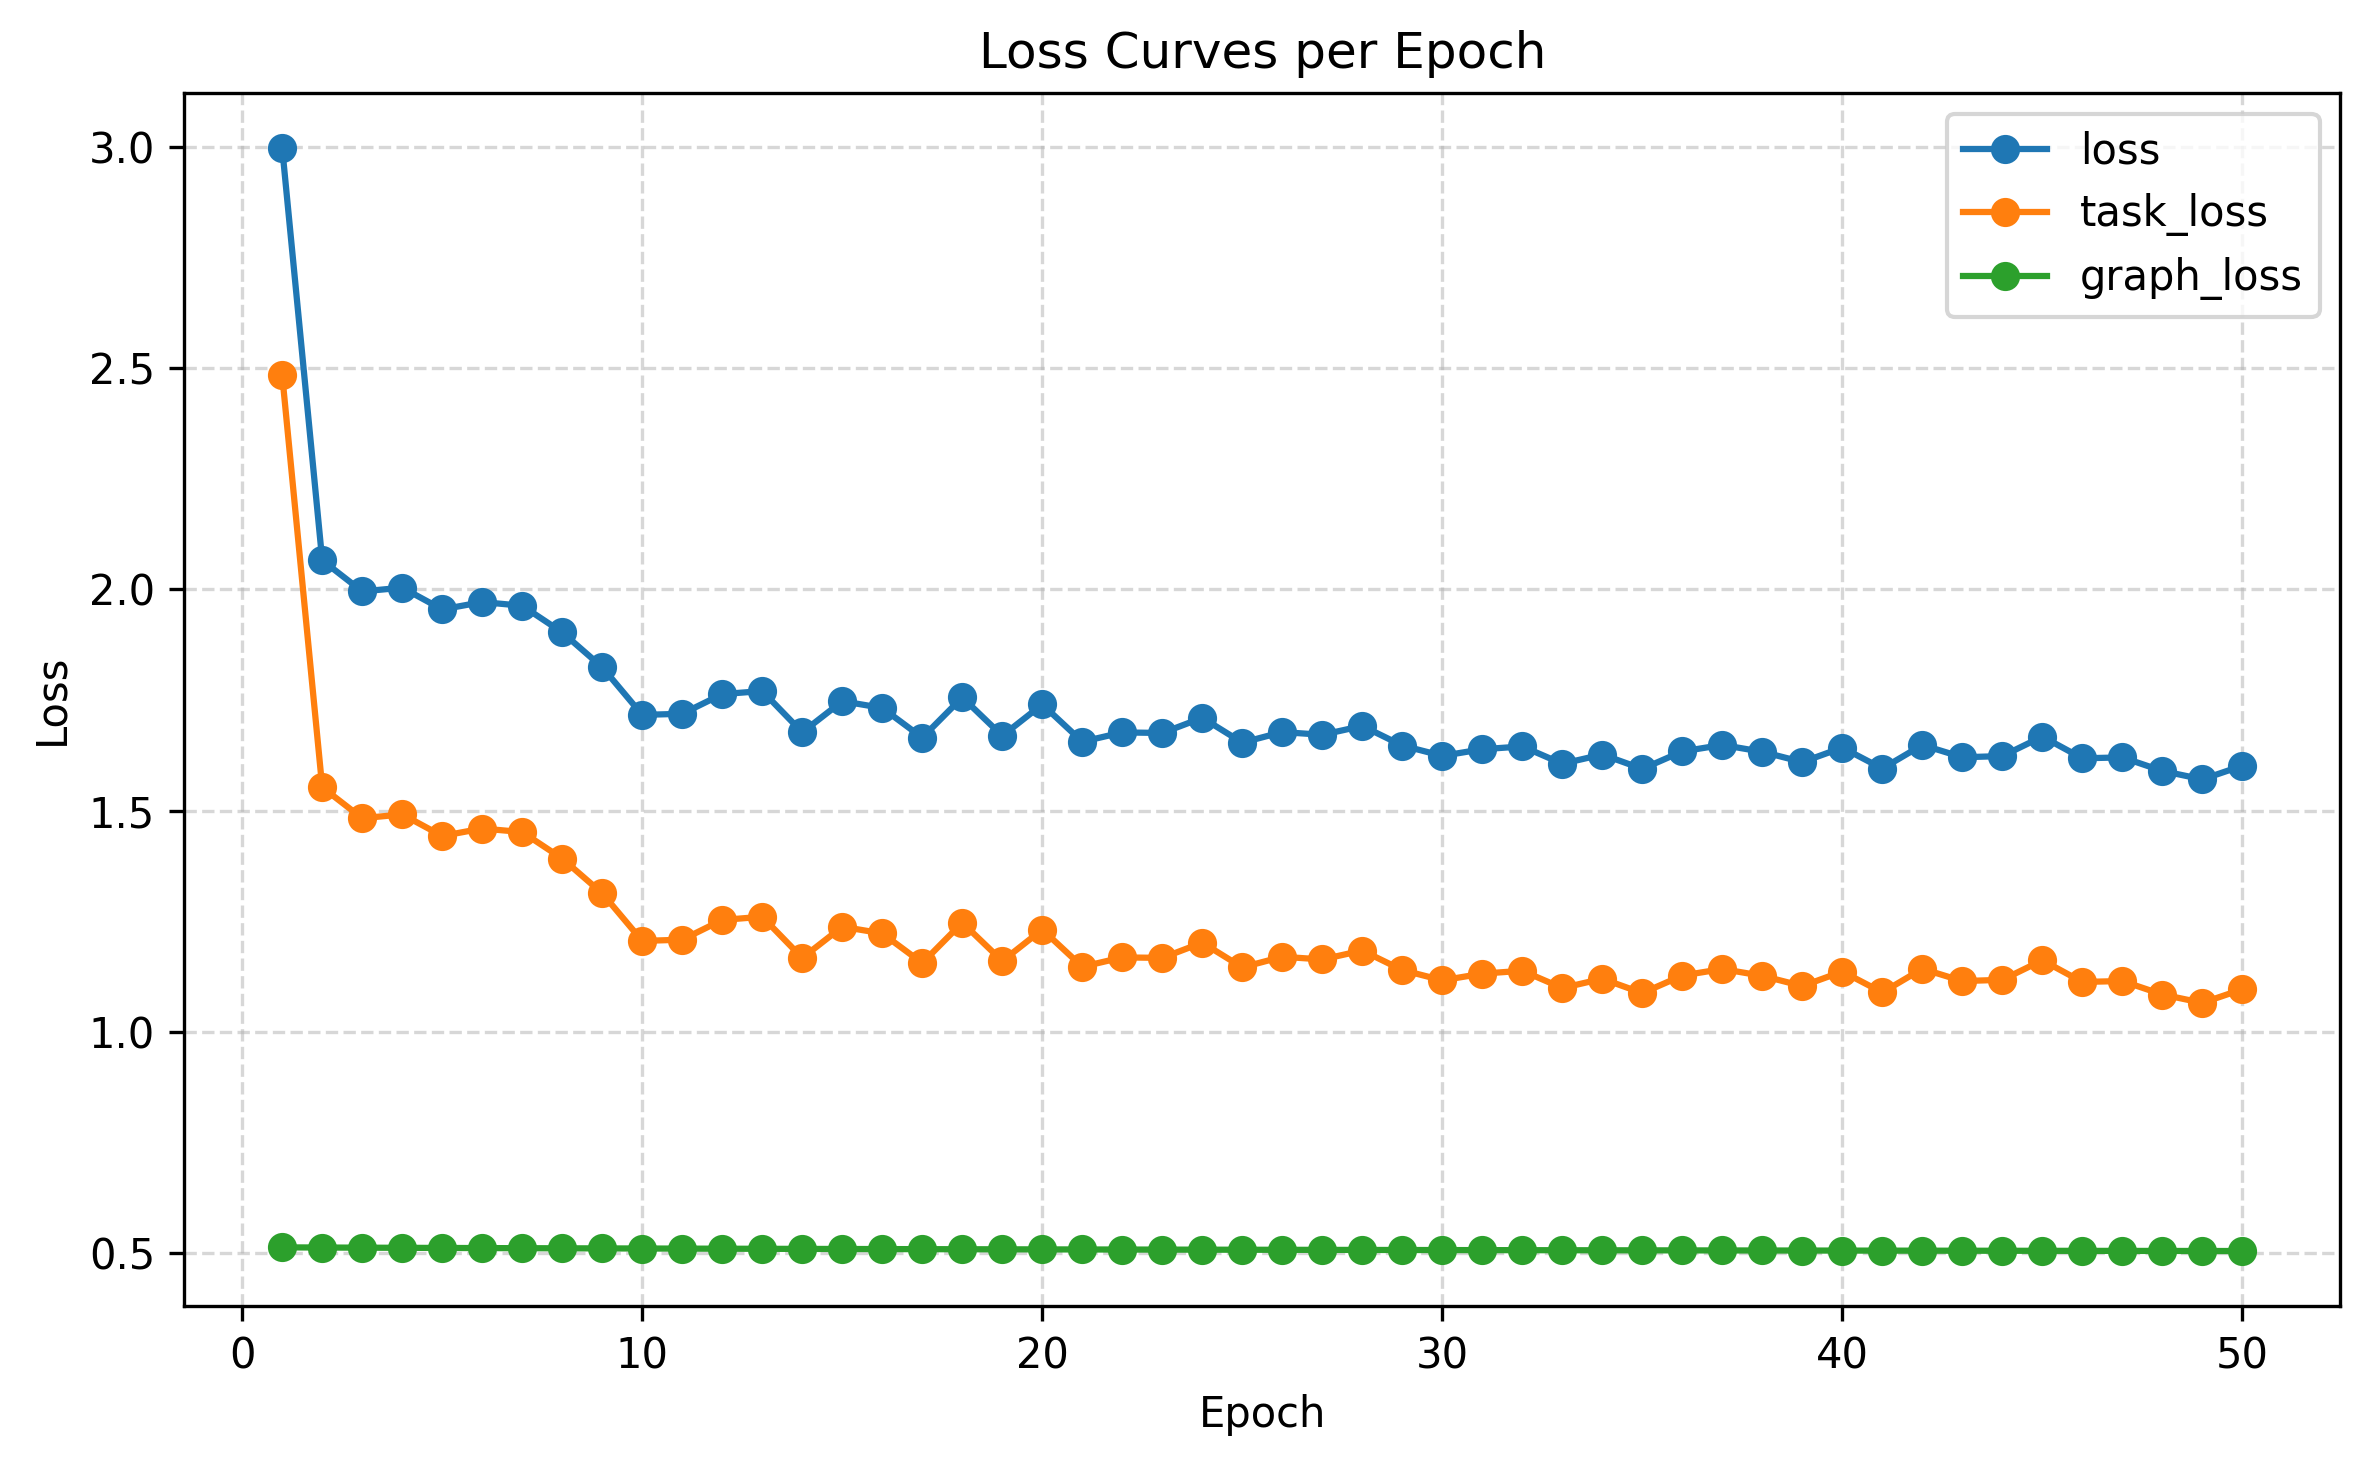
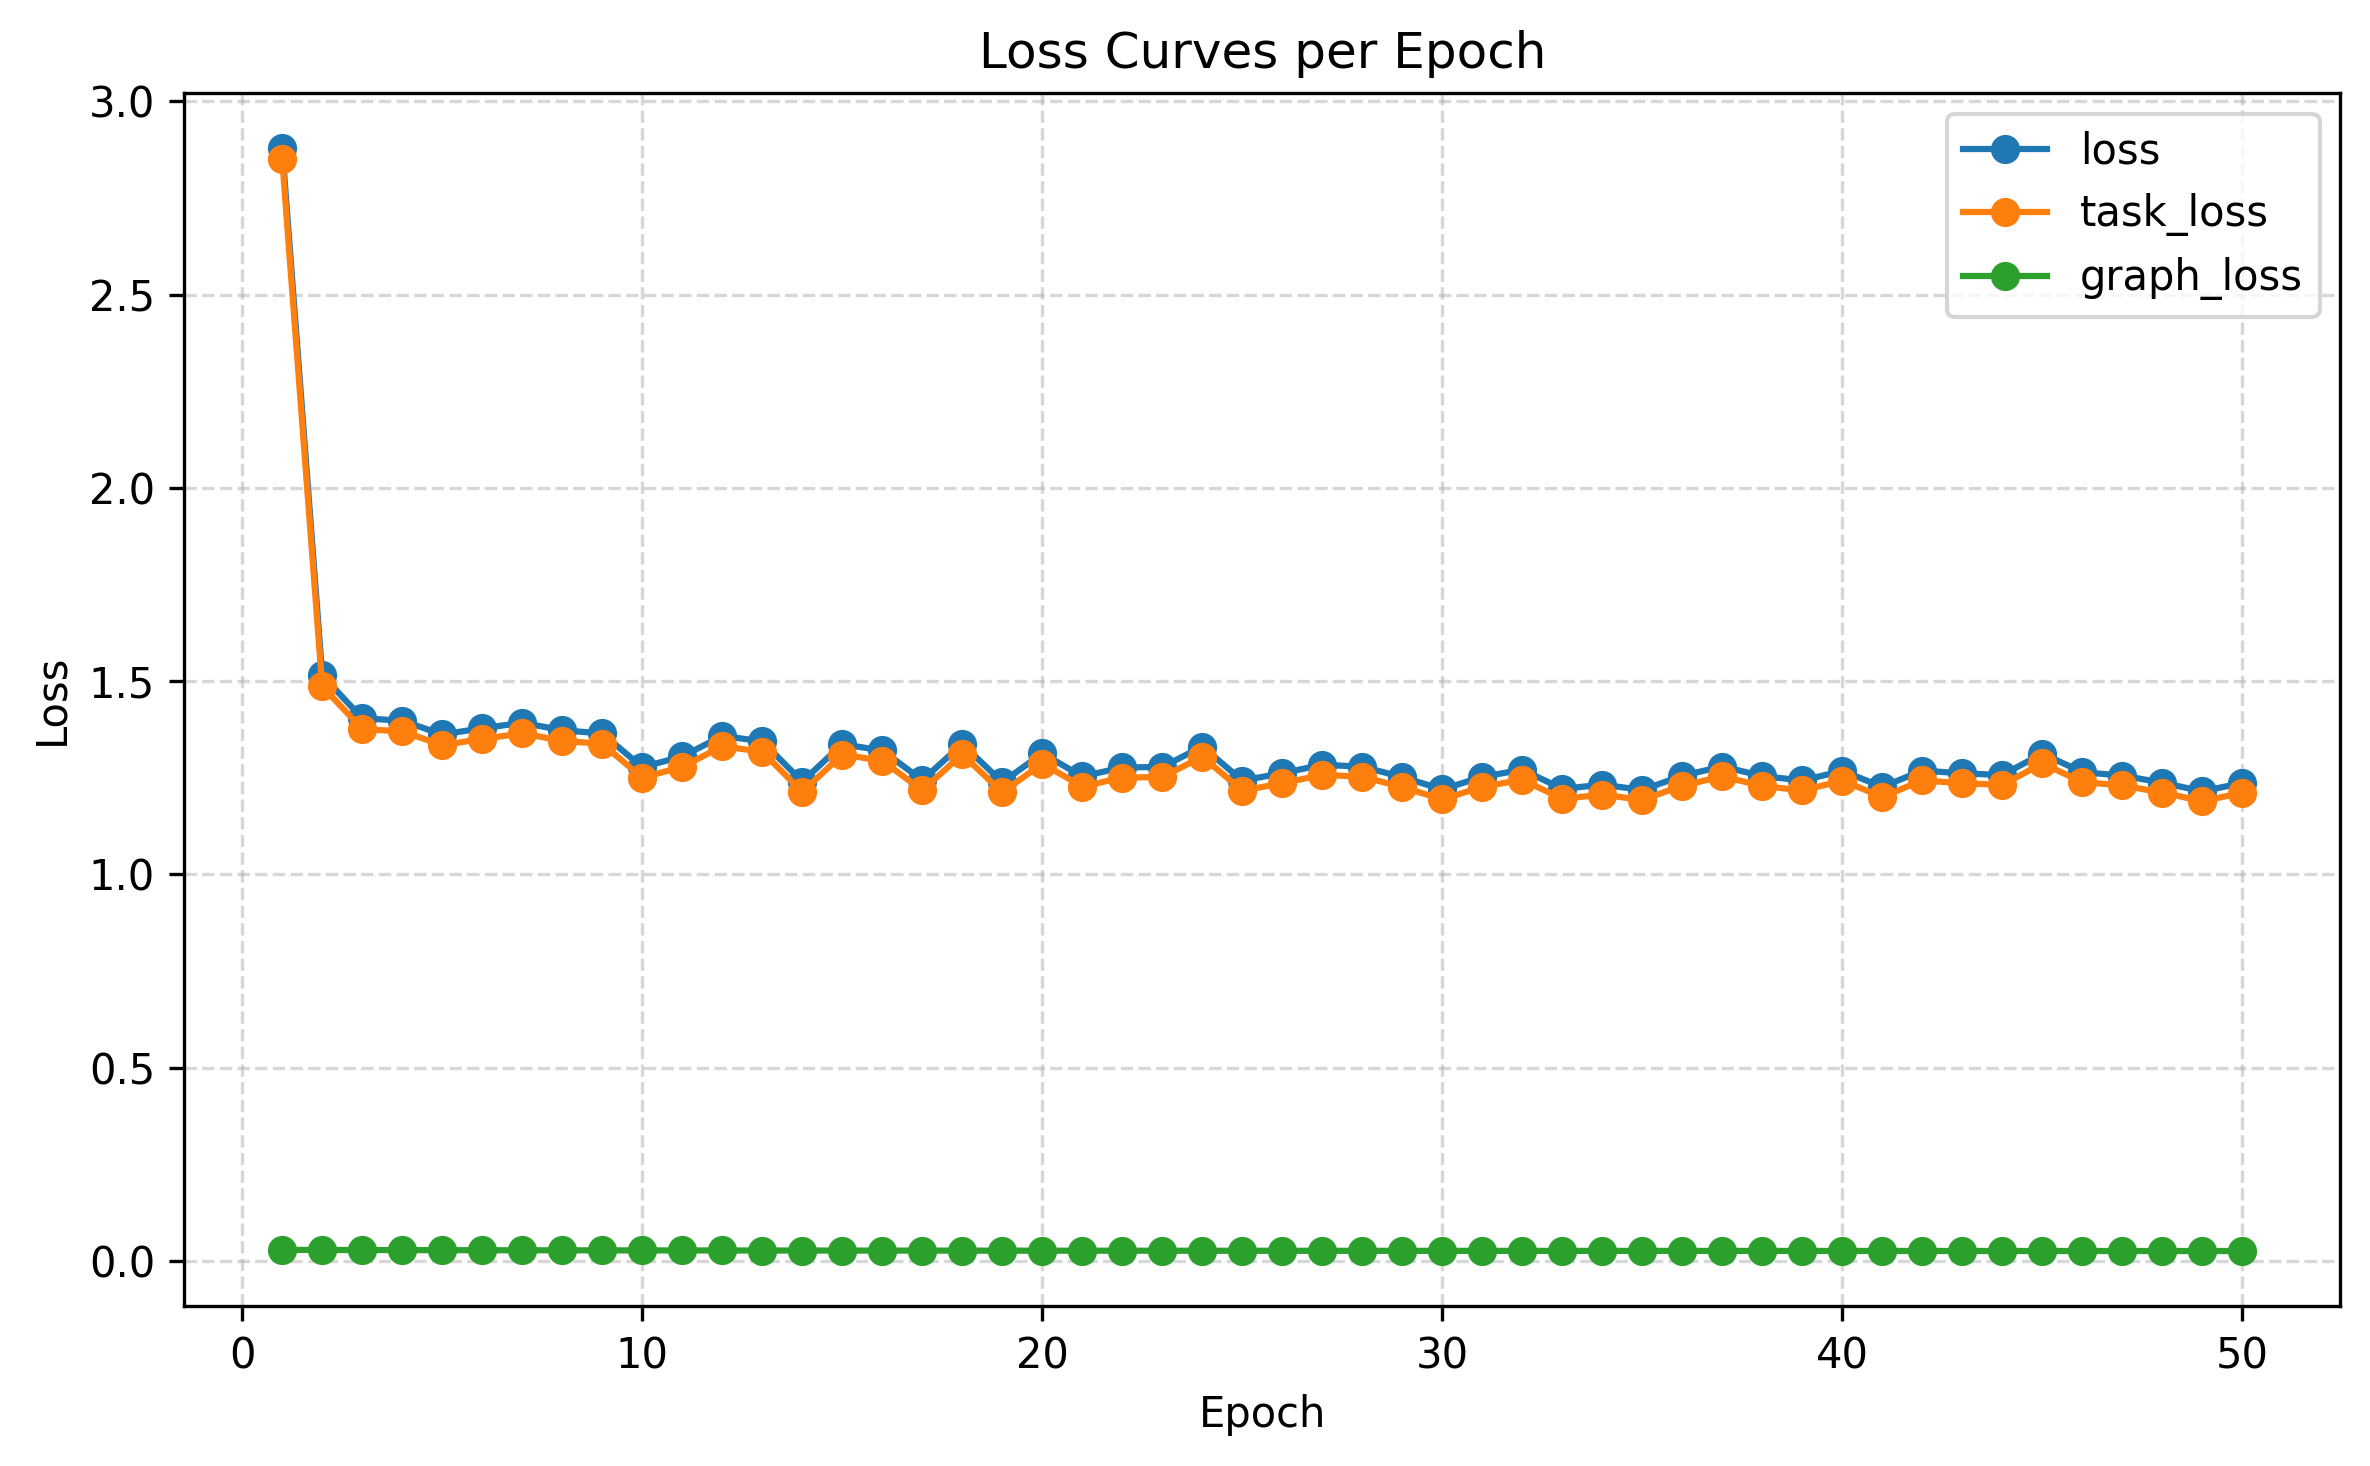
update env

diff --git a/scripts/evaluate.py b/scripts/evaluate.py
@@ -99,6 +99,7 @@ def evaluate(config_path: str, checkpoint_path: str, max_samples: int | None = N
                 task_attention_mask=task_mask,
             )
 
+            # 获取完整的生成文本（不要截断！）
             generated_text = output["generated_text"]
 
             # Extract and compare answer
@@ -112,11 +113,12 @@ def evaluate(config_path: str, checkpoint_path: str, max_samples: int | None = N
 
             t1 = time.time()
 
+            # 保存到 JSON 时也保存完整的文本，方便你跑完后慢慢用脚本分析
             results.append({
                 "question": batch["questions"][0],
                 "gold": gold,
                 "prediction": pred,
-                "generated_text": generated_text[:500],
+                "generated_text": generated_text,  # <--- 去掉了 [:500]
                 "correct": is_correct,
             })
 
@@ -129,14 +131,20 @@ def evaluate(config_path: str, checkpoint_path: str, max_samples: int | None = N
                     f"{t1-t0:.1f}s/sample"
                 )
 
-            # Print some examples
+            # 强力建议：打印前 5 个（或任意你想看的数量）的【完整】推理过程
             if idx < 5:
                 status = "✓" if is_correct else "✗"
-                print(f"\n  Example {idx+1} [{status}]:")
-                print(f"    Q: {batch['questions'][0][:100]}...")
-                print(f"    Gold: {gold}")
-                print(f"    Pred: {pred}")
-                print(f"    Gen:  {generated_text[:200]}")
+                print(f"\n{'='*40}")
+                print(f"  Example {idx+1} [{status}]")
+                print(f"{'='*40}")
+                print(f"  [Question]:\n{batch['questions'][0]}")
+                print(f"  [Gold Answer]: {gold}")
+                print(f"  [Extracted Pred]: {pred}")
+                print(f"\n  [Terminal Agent Full Reasoning]:")
+                print(f"  {'-'*36}")
+                # 打印完整文本，你可以清楚看到模型有没有破防
+                print(f"{generated_text}")
+                print(f"  {'-'*36}\n")
 
     # ── Summary ──
     t_total = time.time() - t_start

diff --git a/scripts/plot_loss.py b/scripts/plot_loss.py
@@ -2,7 +2,7 @@ import pandas as pd
 import matplotlib.pyplot as plt
 
 # 读取 csv
-df = pd.read_csv("/data2/yangyz/latent-MAS/outputs/gsm8k_qwen3-0.6b_20260317_225851/loss_log.csv")
+df = pd.read_csv("/data2/yangyz/latent-MAS/outputs/gsm8k_qwen3-0.6b_20260318_114558/loss_log.csv")
 
 # 按 epoch 聚合，计算每个 epoch 的平均 loss
 epoch_loss = df.groupby("epoch")[["loss", "task_loss", "graph_loss"]].mean().reset_index()
